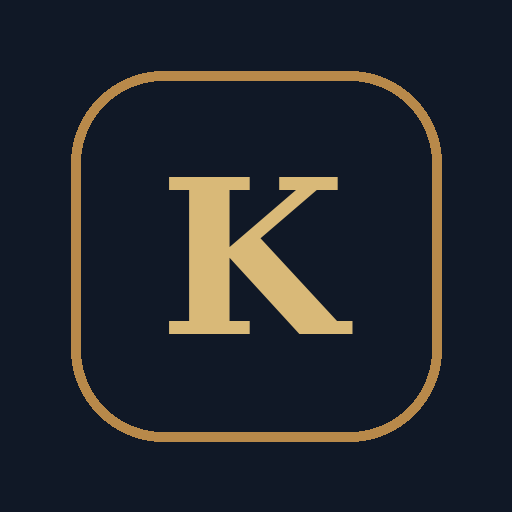
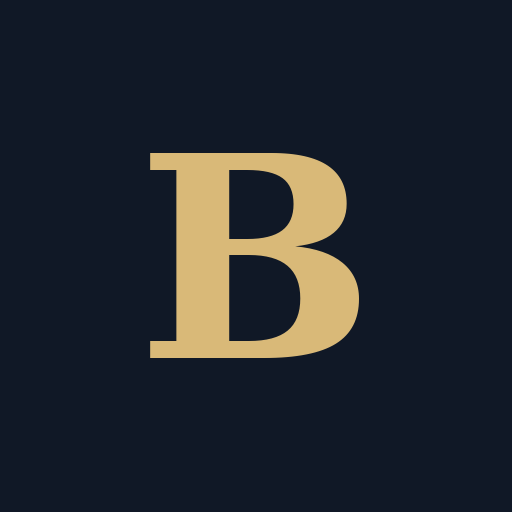
Add files via upload

Changed region(s): [[0.2812, 0.2812, 0.7188, 0.7188], [0.125, 0.125, 0.875, 0.875]]

diff --git a/index.html b/index.html
@@ -194,6 +194,8 @@ body.force-mobile main{padding:20px 16px 90px !important;}
 body.force-mobile .grid-3{grid-template-columns:1fr 1fr !important;}
 body.force-mobile #bottom-nav{display:flex !important;}
 #bottom-nav{display:none; position:fixed; bottom:0; left:0; right:0; background:var(--navy); border-top:1px solid var(--gold-line); justify-content:space-around; padding:10px 0; z-index:40;}
+@media (max-width:780px){ .fab{ bottom:78px; right:20px; z-index:45; } }
+body.force-mobile .fab{ bottom:78px; right:20px; z-index:45; }
 #bottom-nav .nav-item{flex-direction:column; gap:2px; font-size:10px; background:none !important; color:#8B8778;}
 #bottom-nav .nav-item.active{color:var(--gold-soft); box-shadow:none;}
 #bottom-nav .ic{font-size:19px;}
@@ -228,7 +230,7 @@ body.force-mobile #bottom-nav{display:flex !important;}
 <div id="app">
   <div class="sidebar">
     <div class="brand" style="justify-content:space-between">
-      <div style="display:flex; align-items:center; gap:10px"><div class="mark">K</div><span>Budgeting App</span></div>
+      <div style="display:flex; align-items:center; gap:10px"><div class="mark">B</div><span>Budgeting App</span></div>
       <div style="display:flex; align-items:center; gap:6px">
         <div id="theme-quick-toggle" onclick="toggleDark()" title="Toggle light/dark theme" style="cursor:pointer; width:32px; height:32px; border-radius:9px; background:var(--surface-2); display:flex; align-items:center; justify-content:center; font-size:14px">🌙</div>
         <div id="notif-bell" onclick="openNotifPanel()" style="position:relative; cursor:pointer; width:32px; height:32px; border-radius:9px; background:var(--surface-2); display:flex; align-items:center; justify-content:center; font-size:15px">